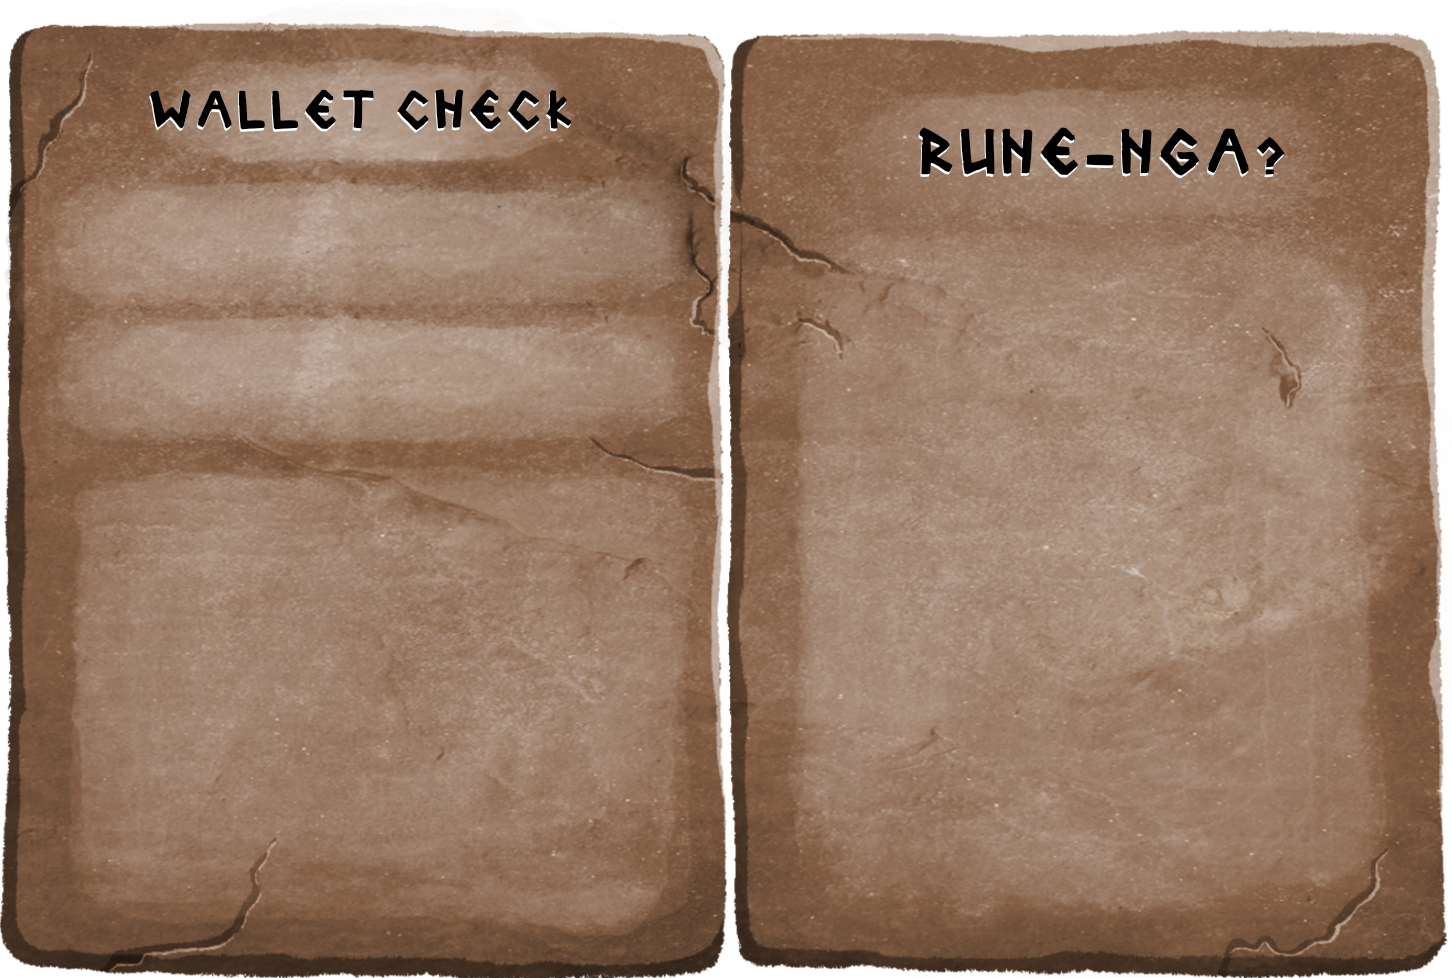
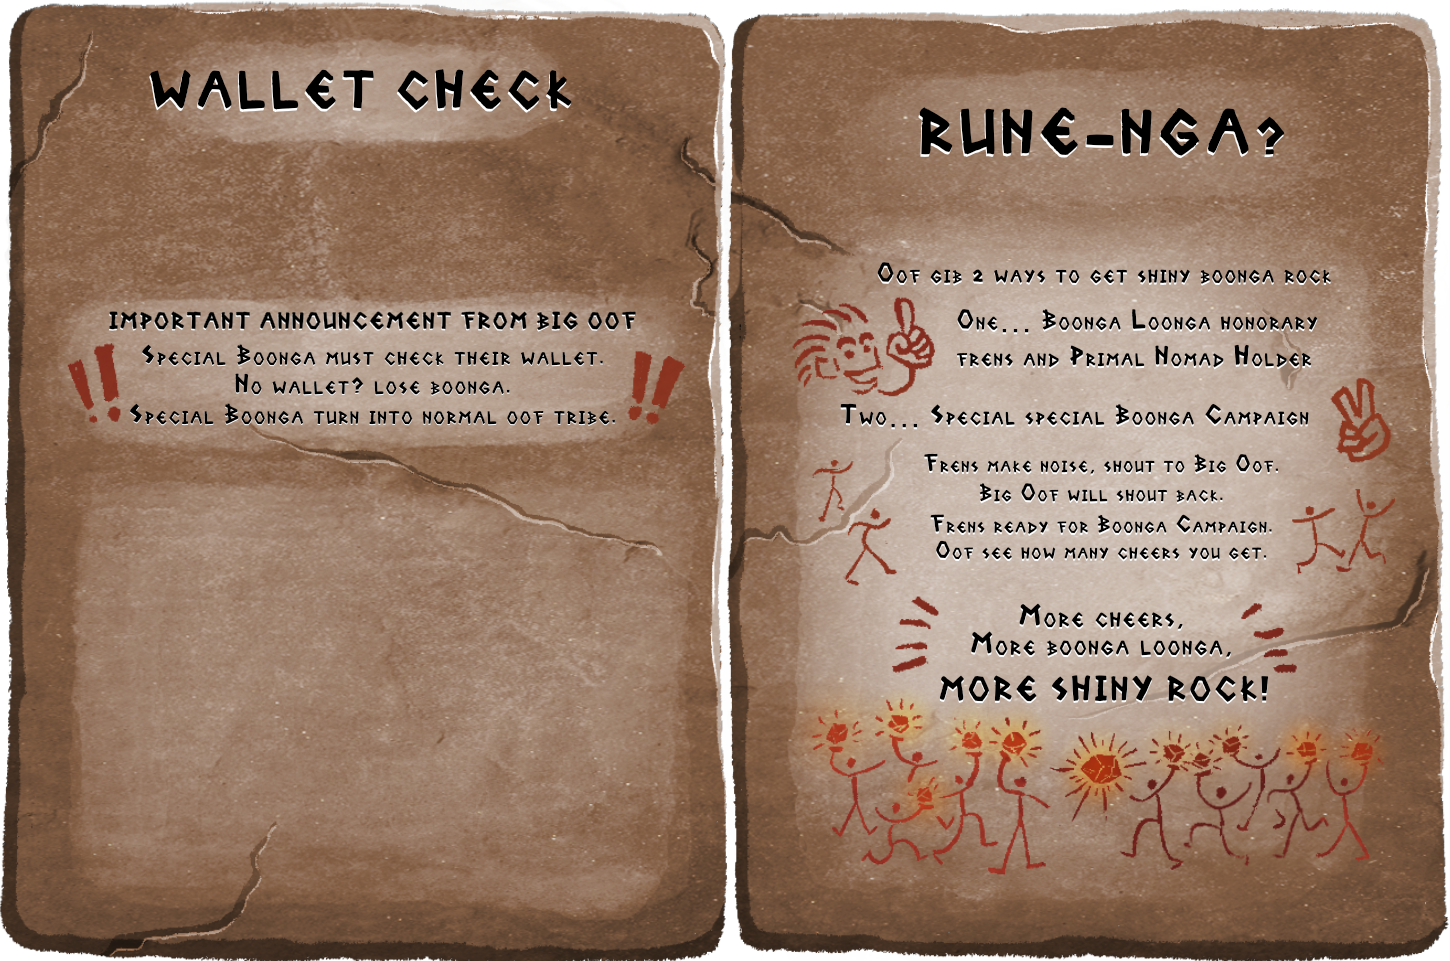
wallet change bg

diff --git a/public/css/components/3-pages/home.scss b/public/css/components/3-pages/home.scss
@@ -140,7 +140,7 @@
   &__content {
     &-left {
       position: absolute;
-      top: 18%;
+      top: 15.5%;
       left: 5%;
       width: 42%;
       height: 76%;
@@ -207,6 +207,15 @@
       }
     }
   }
+  .screen {
+    &__bg {
+      img {
+        max-height: 70vh;
+        min-height: 50vh;
+        height: auto;
+      }
+    }
+  }
 }
 .wallscreen {
   min-height: 63vh;
@@ -262,7 +271,7 @@
     }
     &:after {
       position: absolute;
-      content: '';
+      content: "";
       width: 100%;
       height: 100%;
       background: radial-gradient(#ffc2b5, transparent 70%);
@@ -384,5 +393,31 @@
       z-index: 1;
       transition: 0.3s ease;
     }
+  }
+}
+
+@mixin home-1280 {
+  .home {
+    &-arrow {
+      &.btn-arrow-right {
+        right: 3%;
+      }
+      &.btn-arrow-left {
+        left: 3%;
+      }
+    }
+    &-volume{
+    left: 3%;
+    }
+  }
+  .screen {
+    &__bg {
+      img {
+        max-width: 75vw;
+      }
+    }
+  }
+  .walletscreen {
+    top: 54%;
   }
 }

diff --git a/public/css/main.css b/public/css/main.css
@@ -603,7 +603,7 @@ svg {
 
 .walletscreen__content-left {
   position: absolute;
-  top: 18%;
+  top: 15.5%;
   left: 5%;
   width: 42%;
   height: 76%;
@@ -664,6 +664,11 @@ svg {
 }
 .walletscreen__popup.active .walletscreen__popup-inner {
   transform: scale(1);
+}
+.walletscreen .screen__bg img {
+  max-height: 70vh;
+  min-height: 50vh;
+  height: auto;
 }
 
 .wallscreen {
@@ -1339,6 +1344,21 @@ svg {
 @media (max-width: 1280px) {
   .boongascreen__container {
     gap: 2vw;
+  }
+  .home-arrow.btn-arrow-right {
+    right: 3%;
+  }
+  .home-arrow.btn-arrow-left {
+    left: 3%;
+  }
+  .home-volume {
+    left: 3%;
+  }
+  .screen__bg img {
+    max-width: 75vw;
+  }
+  .walletscreen {
+    top: 54%;
   }
 }
 @media (max-width: 1024px) {

diff --git a/src/views/home/screens/LeaderboardScreen/LeaderboardScreen.jsx b/src/views/home/screens/LeaderboardScreen/LeaderboardScreen.jsx
@@ -1,10 +1,10 @@
 import React, { useEffect } from "react";
 
 const LeaderboardScreen = () => {
-  useEffect(() => {
-    document.body.classList.add("hideButtons");
-    return () => document.body.classList.remove("hideButtons");
-  }, []);
+  // useEffect(() => {
+  //   document.body.classList.add("hideButtons");
+  //   return () => document.body.classList.remove("hideButtons");
+  // }, []);
   return (
     <div className="leaderboard screen">
       <div className="leaderboard__bg screen__bg">

diff --git a/public/css/components/2-layout/responsive.scss b/public/css/components/2-layout/responsive.scss
@@ -7,6 +7,7 @@
 }
 @media (max-width: 1280px) {
   @include boonga-1280;
+  @include home-1280;
 }
 @media (max-width: 1024px) {
   @include leaderboard-1024;

diff --git a/public/css/components/3-pages/leaderboard.scss b/public/css/components/3-pages/leaderboard.scss
@@ -107,7 +107,6 @@
     }
   }
 }
-
 @mixin leaderboard-1024 {
   .leaderboard {
     .screen__bg {
